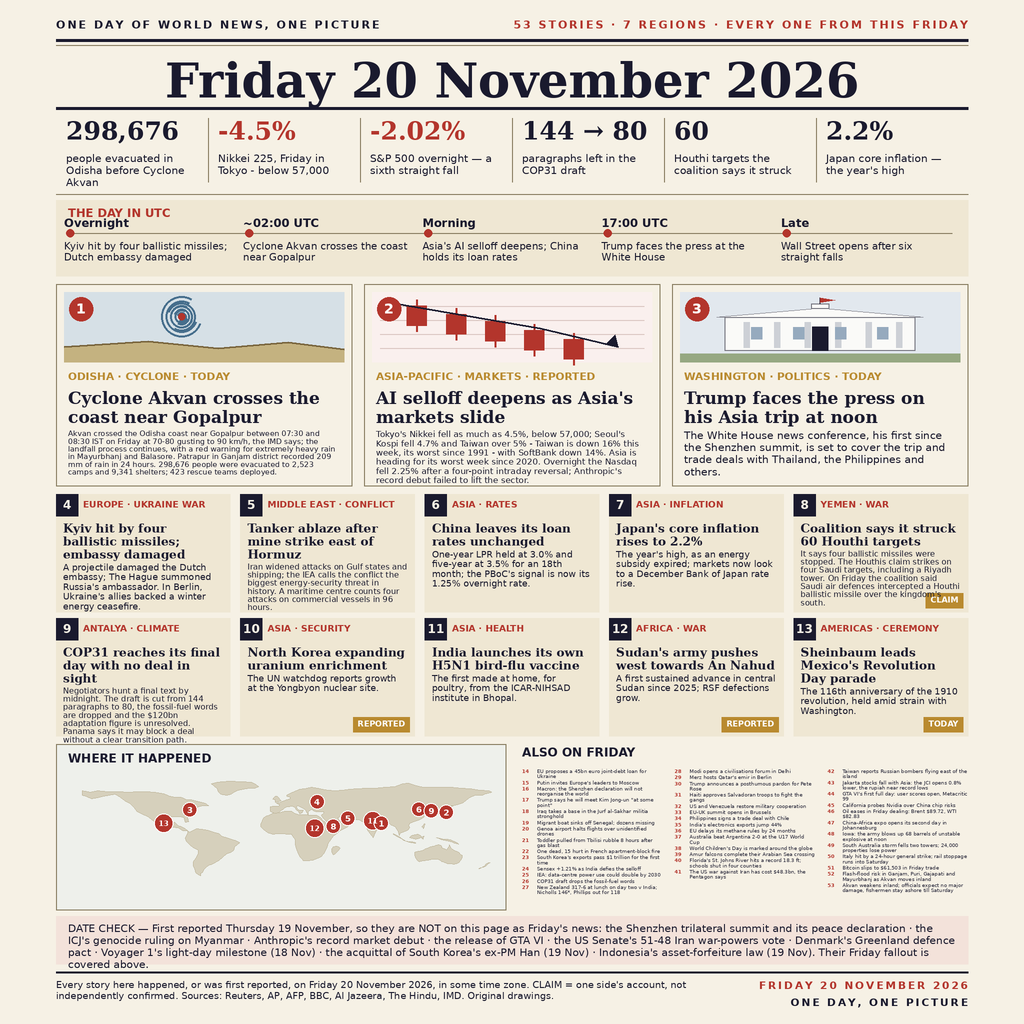
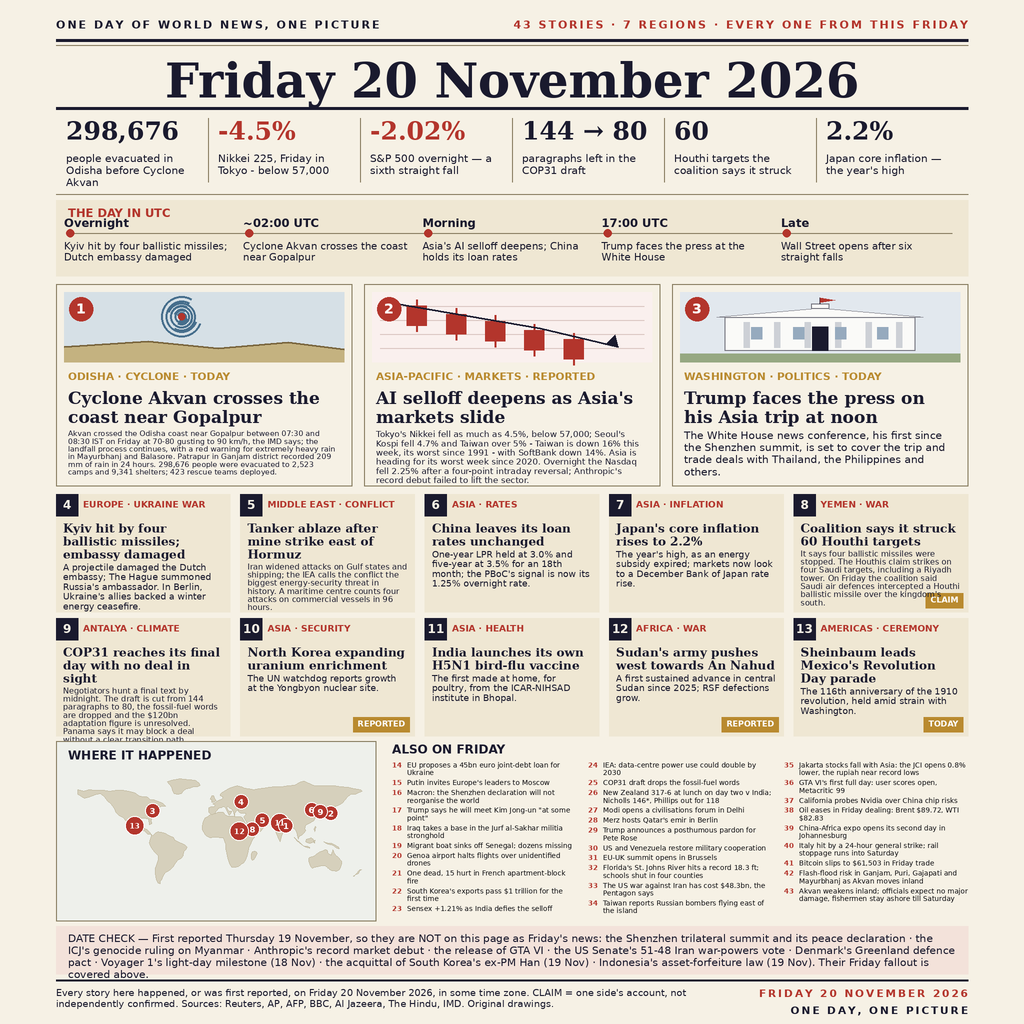
v9: legibility tuning - briefs fixed 7.25pt near-black, 10 weakest briefs cut, 43 stories

Changed region(s): [[0.0625, 0.7188, 0.9688, 1.0]]

diff --git a/build_poster.py b/build_poster.py
@@ -115,7 +115,7 @@ CW = 1024 - 2 * MX  # content width (final px)
 # ---------------------------------------------------------------- 1. kicker
 kf = sans_b(11)
 spaced(MX, 18, "ONE DAY OF WORLD NEWS, ONE PICTURE", kf, INK)
-spaced_right(1024 - MX, 18, "53 STORIES · 7 REGIONS · EVERY ONE FROM THIS FRIDAY", kf, RED)
+spaced_right(1024 - MX, 18, "43 STORIES · 7 REGIONS · EVERY ONE FROM THIS FRIDAY", kf, RED)
 hline(MX, 1024 - MX, 40, INK, 3)
 hline(MX, 1024 - MX, 45, HAIR, 1)
 
@@ -299,9 +299,12 @@ for idx, (num, tag, chip, head, dek) in enumerate(cards):
     draw_lines(cx + 7, yy + 2, wrap(dek, cdkf, gw - 14), cdkf, INK, cdlead)
 
 # ---------------------------------------------------------------- 7. bottom band
-by = gy + 2 * gh + 6 + 8
-bh = 166
-mapw = 450
+# v9: band is taller (166 -> 180) and the map narrower (450 -> 320) so the
+# briefs beside it can run at a readable 7.25pt; the small gaps above and
+# below the band give up a few px to pay for the extra height.
+by = gy + 2 * gh + 6 + 5
+bh = 180
+mapw = 320
 d.rectangle([X(MX), X(by), X(MX + mapw), X(by + bh)], fill=(238, 240, 235), outline=HAIR, width=S)
 d.text((X(MX + 12), X(by + 7)), "WHERE IT HAPPENED", font=sans_b(12), fill=INK)
 # Simplified low-poly world map: one (lon, lat) polygon per landmass, drawn
@@ -369,7 +372,7 @@ for lon, lat, n in pin_order:
 for lon, lat, n in pin_order:
     draw_pin(lon, lat, n, number_only=True)
 
-# right: ALSO ON FRIDAY briefs 14-40, three flowing columns
+# right: ALSO ON FRIDAY briefs 14-43, three flowing columns
 ax = MX + mapw + 16
 aw = 1024 - MX - ax
 d.text((X(ax), X(by + 1)), "ALSO ON FRIDAY", font=sans_b(12), fill=INK)
@@ -381,7 +384,6 @@ briefs = [
     "Iraq takes a base in the Jurf al-Sakhar militia stronghold",
     "Migrant boat sinks off Senegal; dozens missing",
     "Genoa airport halts flights over unidentified drones",
-    "Toddler pulled from Tbilisi rubble 8 hours after gas blast",
     "One dead, 15 hurt in French apartment-block fire",
     "South Korea's exports pass $1 trillion for the first time",
     "Sensex +1.21% as India defies the selloff",
@@ -391,15 +393,8 @@ briefs = [
     "Modi opens a civilisations forum in Delhi",
     "Merz hosts Qatar's emir in Berlin",
     "Trump announces a posthumous pardon for Pete Rose",
-    "Haiti approves Salvadoran troops to fight the gangs",
     "US and Venezuela restore military cooperation",
     "EU-UK summit opens in Brussels",
-    "Philippines signs a trade deal with Chile",
-    "India's electronics exports jump 44%",
-    "EU delays its methane rules by 24 months",
-    "Australia beat Argentina 2-0 at the U17 World Cup",
-    "World Children's Day is marked around the globe",
-    "Amur falcons complete their Arabian Sea crossing",
     "Florida's St. Johns River hits a record 18.3 ft; schools shut in four counties",
     "The US war against Iran has cost $48.3bn, the Pentagon says",
     "Taiwan reports Russian bombers flying east of the island",
@@ -408,50 +403,52 @@ briefs = [
     "California probes Nvidia over China chip risks",
     "Oil eases in Friday dealing: Brent $89.72, WTI $82.83",
     "China-Africa expo opens its second day in Johannesburg",
-    "Iowa: the army blows up 68 barrels of unstable explosive at noon",
-    "South Australia storm fells two towers; 24,000 properties lose power",
     "Italy hit by a 24-hour general strike; rail stoppage runs into Saturday",
     "Bitcoin slips to $61,503 in Friday trade",
     "Flash-flood risk in Ganjam, Puri, Gajapati and Mayurbhanj as Akvan moves inland",
     "Akvan weakens inland; officials expect no major damage, fishermen stay ashore till Saturday",
 ]
 bcolw = (aw - 24) / 3
-per = (len(briefs) + 2) // 3
-chunks = [briefs[i * per:(i + 1) * per] for i in range(3)]
 
-
-def brief_height(fs, leading, gap):
-    """Tallest of the three brief columns (final px) at the given type size."""
-    f = sans(fs)
-    worst = 0
-    for chunk in chunks:
-        h = 0
-        for btxt in chunk:
-            h += len(wrap(btxt, f, bcolw - 15)) * (f.size * leading) / S + gap
-        worst = max(worst, h - gap)
-    return worst
-
-
-# Shrink the brief type until all three columns fit inside the band.
-bfs, blead, bgap = 6.0, 1.05, 1.5
-for fs_try, lead_try, gap_try in ((7.5, 1.05, 2.0), (7.0, 1.05, 1.8), (7.0, 1.03, 1.5),
-                                  (6.5, 1.05, 1.5), (6.5, 1.03, 1.2), (6.0, 1.05, 1.5),
-                                  (5.5, 1.03, 1.0), (5.25, 1.03, 1.0), (5.0, 1.03, 1.0)):
-    if brief_height(fs_try, lead_try, gap_try) <= bh - 28:
-        bfs, blead, bgap = fs_try, lead_try, gap_try
-        break
+# v9 legibility pass: the brief type NEVER drops below 7.25pt. Ten weakest
+# briefs were cut (Amur falcons, Australia U17, World Children's Day,
+# Philippines-Chile trade, EU methane, Tbilisi toddler, Iowa lead-azide,
+# South Australia storm, Haiti troops, India electronics) rather than
+# shrinking the type; the surviving 30 run at a fixed 7.25pt in near-black
+# with comfortable spacing. The columns stay in list order but the two
+# split points are chosen to balance column heights, so no column can
+# overflow the band.
+BRIEFINK = (10, 10, 14)
+bfs, blead, bgap = 7.25, 1.10, 2.25
 bff = sans(bfs)
 bnf = sans_b(bfs)
+
+
+def brief_h(btxt):
+    return len(wrap(btxt, bff, bcolw - 15)) * (bff.size * blead) / S + bgap
+
+
+bhs = [brief_h(b) for b in briefs]
+best = None
+for i in range(1, len(briefs) - 1):
+    for j in range(i + 1, len(briefs)):
+        m = max(sum(bhs[:i]), sum(bhs[i:j]), sum(bhs[j:]))
+        if best is None or m < best[0]:
+            best = (m, i, j)
+_, si, sj = best
+assert best[0] - bgap <= bh - 23, "briefs overflow the band"
+chunks = [briefs[:si], briefs[si:sj], briefs[sj:]]
+n = 14
 for col, chunk in enumerate(chunks):
     bx = ax + col * (bcolw + 12)
-    byy = by + 24
-    for j, btxt in enumerate(chunk):
-        n = 14 + col * per + j
+    byy = by + 20
+    for btxt in chunk:
         d.text((X(bx), X(byy)), f"{n}", font=bnf, fill=RED)
-        byy = draw_lines(bx + 15, byy, wrap(btxt, bff, bcolw - 15), bff, INK, blead) + bgap
+        byy = draw_lines(bx + 15, byy, wrap(btxt, bff, bcolw - 15), bff, BRIEFINK, blead) + bgap
+        n += 1
 
 # ---------------------------------------------------------------- 8. date check
-dy = by + bh + 6
+dy = by + bh + 5
 d.rectangle([X(MX), X(dy), X(1024 - MX), X(dy + 48)], fill=REDBAND)
 dcf = sans(10.5)
 dc = ("DATE CHECK — First reported Thursday 19 November, so they are NOT on this page as Friday's news: "
@@ -463,7 +460,7 @@ dc = ("DATE CHECK — First reported Thursday 19 November, so they are NOT on th
 draw_lines(MX + 12, dy + 6, wrap(dc, dcf, CW - 24), dcf, INK, 1.15)
 
 # ---------------------------------------------------------------- 9. footer
-fy = dy + 48 + 8
+fy = dy + 48 + 6
 hline(MX, 1024 - MX, fy, INK, 2)
 ff = sans(9.5)
 foot = ("Every story here happened, or was first reported, on Friday 20 November 2026, in some time zone. "
